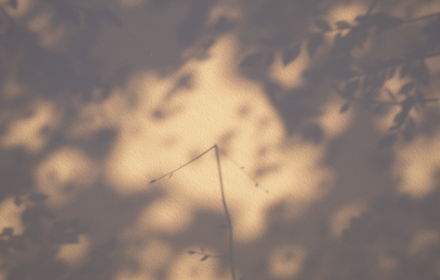
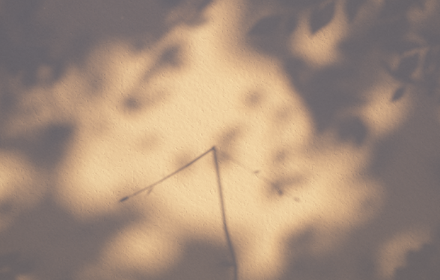
Komorebi Clock: store listing, screenshots and promo tiles; tooltip beside the ring
Five store screenshots (morning, golden hour, twilight, moonlight, the
playground open), a small promo tile and a marquee, and LISTING.md with the
English and Japanese descriptions and the privacy answers. The manifest
summary now says a branch tells the time. The playground tooltip sits to the
left of the ring at its height, and stays hidden while the bar is open.

diff --git a/komorebi/extension/newtab.html b/komorebi/extension/newtab.html
@@ -10,17 +10,18 @@
 html,body{margin:0;height:100%;background:var(--wall);overflow:hidden}
 body{-webkit-user-select:none;user-select:none}
 canvas{position:fixed;inset:0;width:100%;height:100%;display:block}
-/* the playground (debug bar) toggle: a faint ring in the corner, a 40px target, a serif tooltip on hover */
+/* the playground (debug bar) toggle: a faint ring in the corner, a 40px target, a serif tooltip to its left on hover */
 #pg{position:fixed;right:8px;bottom:19px;width:40px;height:40px;padding:0;border:0;border-radius:50%;background:transparent;
   cursor:pointer;z-index:11;-webkit-tap-highlight-color:transparent}
 #pg::after{content:"";position:absolute;inset:0;margin:auto;width:11px;height:11px;box-sizing:border-box;border-radius:50%;
   border:1.5px solid rgba(255,255,255,.8);box-shadow:0 0 0 1px rgba(40,34,28,.16);opacity:.3;transition:opacity .4s}
 #pg:hover::after,#pg:focus-visible::after,#pg[aria-expanded="true"]::after{opacity:.8}
-#pg::before{content:attr(aria-label);position:absolute;right:0;bottom:calc(100% + 8px);padding:6px 10px;border-radius:6px;
+#pg::before{content:attr(aria-label);position:absolute;right:calc(100% - 6px);top:50%;padding:6px 10px;border-radius:6px;
   background:rgba(20,22,26,.72);-webkit-backdrop-filter:blur(6px);backdrop-filter:blur(6px);color:#f3efe8;
   font:14px/1 "Iowan Old Style","Palatino Linotype",Palatino,Georgia,serif;letter-spacing:.02em;white-space:nowrap;
-  pointer-events:none;opacity:0;transform:translateY(2px);transition:opacity .15s,transform .15s}
-#pg:hover::before,#pg:focus-visible::before{opacity:1;transform:none;transition:opacity .2s .3s,transform .2s .3s}
+  pointer-events:none;opacity:0;transform:translate(3px,-50%);transition:opacity .15s,transform .15s}
+#pg:hover::before,#pg:focus-visible::before{opacity:1;transform:translate(0,-50%);transition:opacity .2s .3s,transform .2s .3s}
+#pg[aria-expanded="true"]::before{display:none}   /* the open bar would sit under it */
 #pg:focus-visible{outline:2px solid rgba(255,255,255,.85);outline-offset:-4px}
 </style>
 </head>

diff --git a/komorebi/store/LISTING.md b/komorebi/store/LISTING.md
@@ -1,0 +1,64 @@
+# Chrome Web Store 掲載情報 — Komorebi Clock New Tab
+
+## パッケージ
+- `komorebi-clock-newtab-1.0.0.zip`（Manifest V3、権限なし、外部通信なし）
+
+## ストアの掲載情報タブ
+- **名前**: Komorebi Clock New Tab（manifest から自動入力）
+- **概要（132 文字以内, manifest の description）**:
+  A quiet new tab: soft tree shadows on a plaster wall, cast by the sun of the hour. One branch gently tells the time.
+- **カテゴリ**: ライフスタイル › アート＆デザイン（または「Chrome をカスタマイズ › 機能と UI」）
+- **言語**: 英語（日本語を追加する場合は下の説明文を使用）
+
+### 詳細な説明（English）
+Komorebi Clock replaces your new tab page with sunlight falling through leaves onto a plaster wall. It is a clock without numerals.
+
+Every shadow is cast by leaves and branches modelled in 3D and lit by a sun that follows your local time: pink at dawn, warm white in the morning, bright at noon, golden in the late afternoon, deep orange at dusk, and cool blue moonlight at night. Once a minute, the shadow of a small cloud passes over.
+
+The time hides among the shadows. One branch reaches in from beyond the edge of the screen as the hour hand: from its tip outward, it points to the hour. From that tip grow a long, slender twig for the minutes and the thinnest twig, with a few small leaves, for the seconds. Look for it and you can read the time; look away and it is simply the shadow of a tree.
+
+Each new tab sets the trees out afresh, so the shadows fall a little differently every time.
+
+Click the faint ring in the lower-right corner to open the playground: scrub through the day, play it back fast, send a cloud across, or shuffle the trees.
+
+- No accounts, no settings, no tracking. The extension requests no permissions and makes no network requests.
+- No numerals or text on the wall.
+- Respects "reduce motion" in your system settings.
+
+### 詳細な説明（日本語）
+新しいタブを、漆喰の壁に落ちる木漏れ日に置き換えます。数字のない時計です。
+
+壁の影はすべて、3Dでつくられた葉と枝が落とすものです。光は現在時刻に合わせて動く太陽から届きます。夜明けは淡い桃色、朝は温かな白、昼は明るく、夕方前は金色、日暮れは深い橙、夜は青い月明かり。1分ごとに、小さな雲の影が通り過ぎます。
+
+時刻は影の中に隠れています。画面の外から伸びる1本の枝が時針で、枝先から外への向きが「時」を指します。その枝先から、分を指す細長い小枝と、小さな葉をつけたいちばん細い秒の小枝が伸びています。探せば時刻が読め、目を離せばただの木の影です。
+
+新しいタブを開くたびに木の配置が変わり、影の落ち方も少しずつ違います。
+
+右下の薄い丸をクリックすると playground が開きます。1日の光を早送りしたり、時刻を動かしたり、雲を流したり、木の配置を入れ替えたりできます。
+
+- アカウント・設定・トラッキングはありません。権限を一切要求せず、外部との通信もしません。
+- 壁に数字や文字は表示しません。
+- OSの「視差効果を減らす」設定に従って動きを控えめにします。
+
+### グラフィック
+- アイコン 128×128: `extension/icons/icon128.png`（zip に同梱）
+- スクリーンショット 1280×800（5 枚、この順で）:
+  1. `screenshot_1280x800_a.png` — 朝 10:08
+  2. `screenshot_1280x800_b.png` — 夕方 17:40
+  3. `screenshot_1280x800_c.png` — 日没後 19:20
+  4. `screenshot_1280x800_d.png` — 夜 23:15（月明かり）
+  5. `screenshot_1280x800_e.png` — playground を開いたところ（06:30）
+- 小プロモーションタイル 440×280: `promo_small_440x280.png`
+- マーキー プロモーションタイル 1400×560（任意）: `promo_marquee_1400x560.png`
+- プロモーション動画（任意）: 欄は YouTube の URL。上げる場合は紹介動画（日中・時間帯つなぎ）を使う
+
+## プライバシーへの取り組みタブ
+- **単一用途の説明**: Replaces the new tab page with a clock told by tree shadows on a wall.
+- **権限の正当性**: 要求する権限はありません（`chrome_url_overrides.newtab` のみ）。
+- **リモートコード**: 使用していません。
+- **データの使用**: どのユーザーデータも収集・使用しません（すべてのチェックボックスを外したまま、3 つの宣言にチェック）。
+- **プライバシーポリシー URL**: ユーザーデータを扱わないため不要。
+
+## 配布タブ
+- 公開設定: 公開
+- 地域: すべての地域
